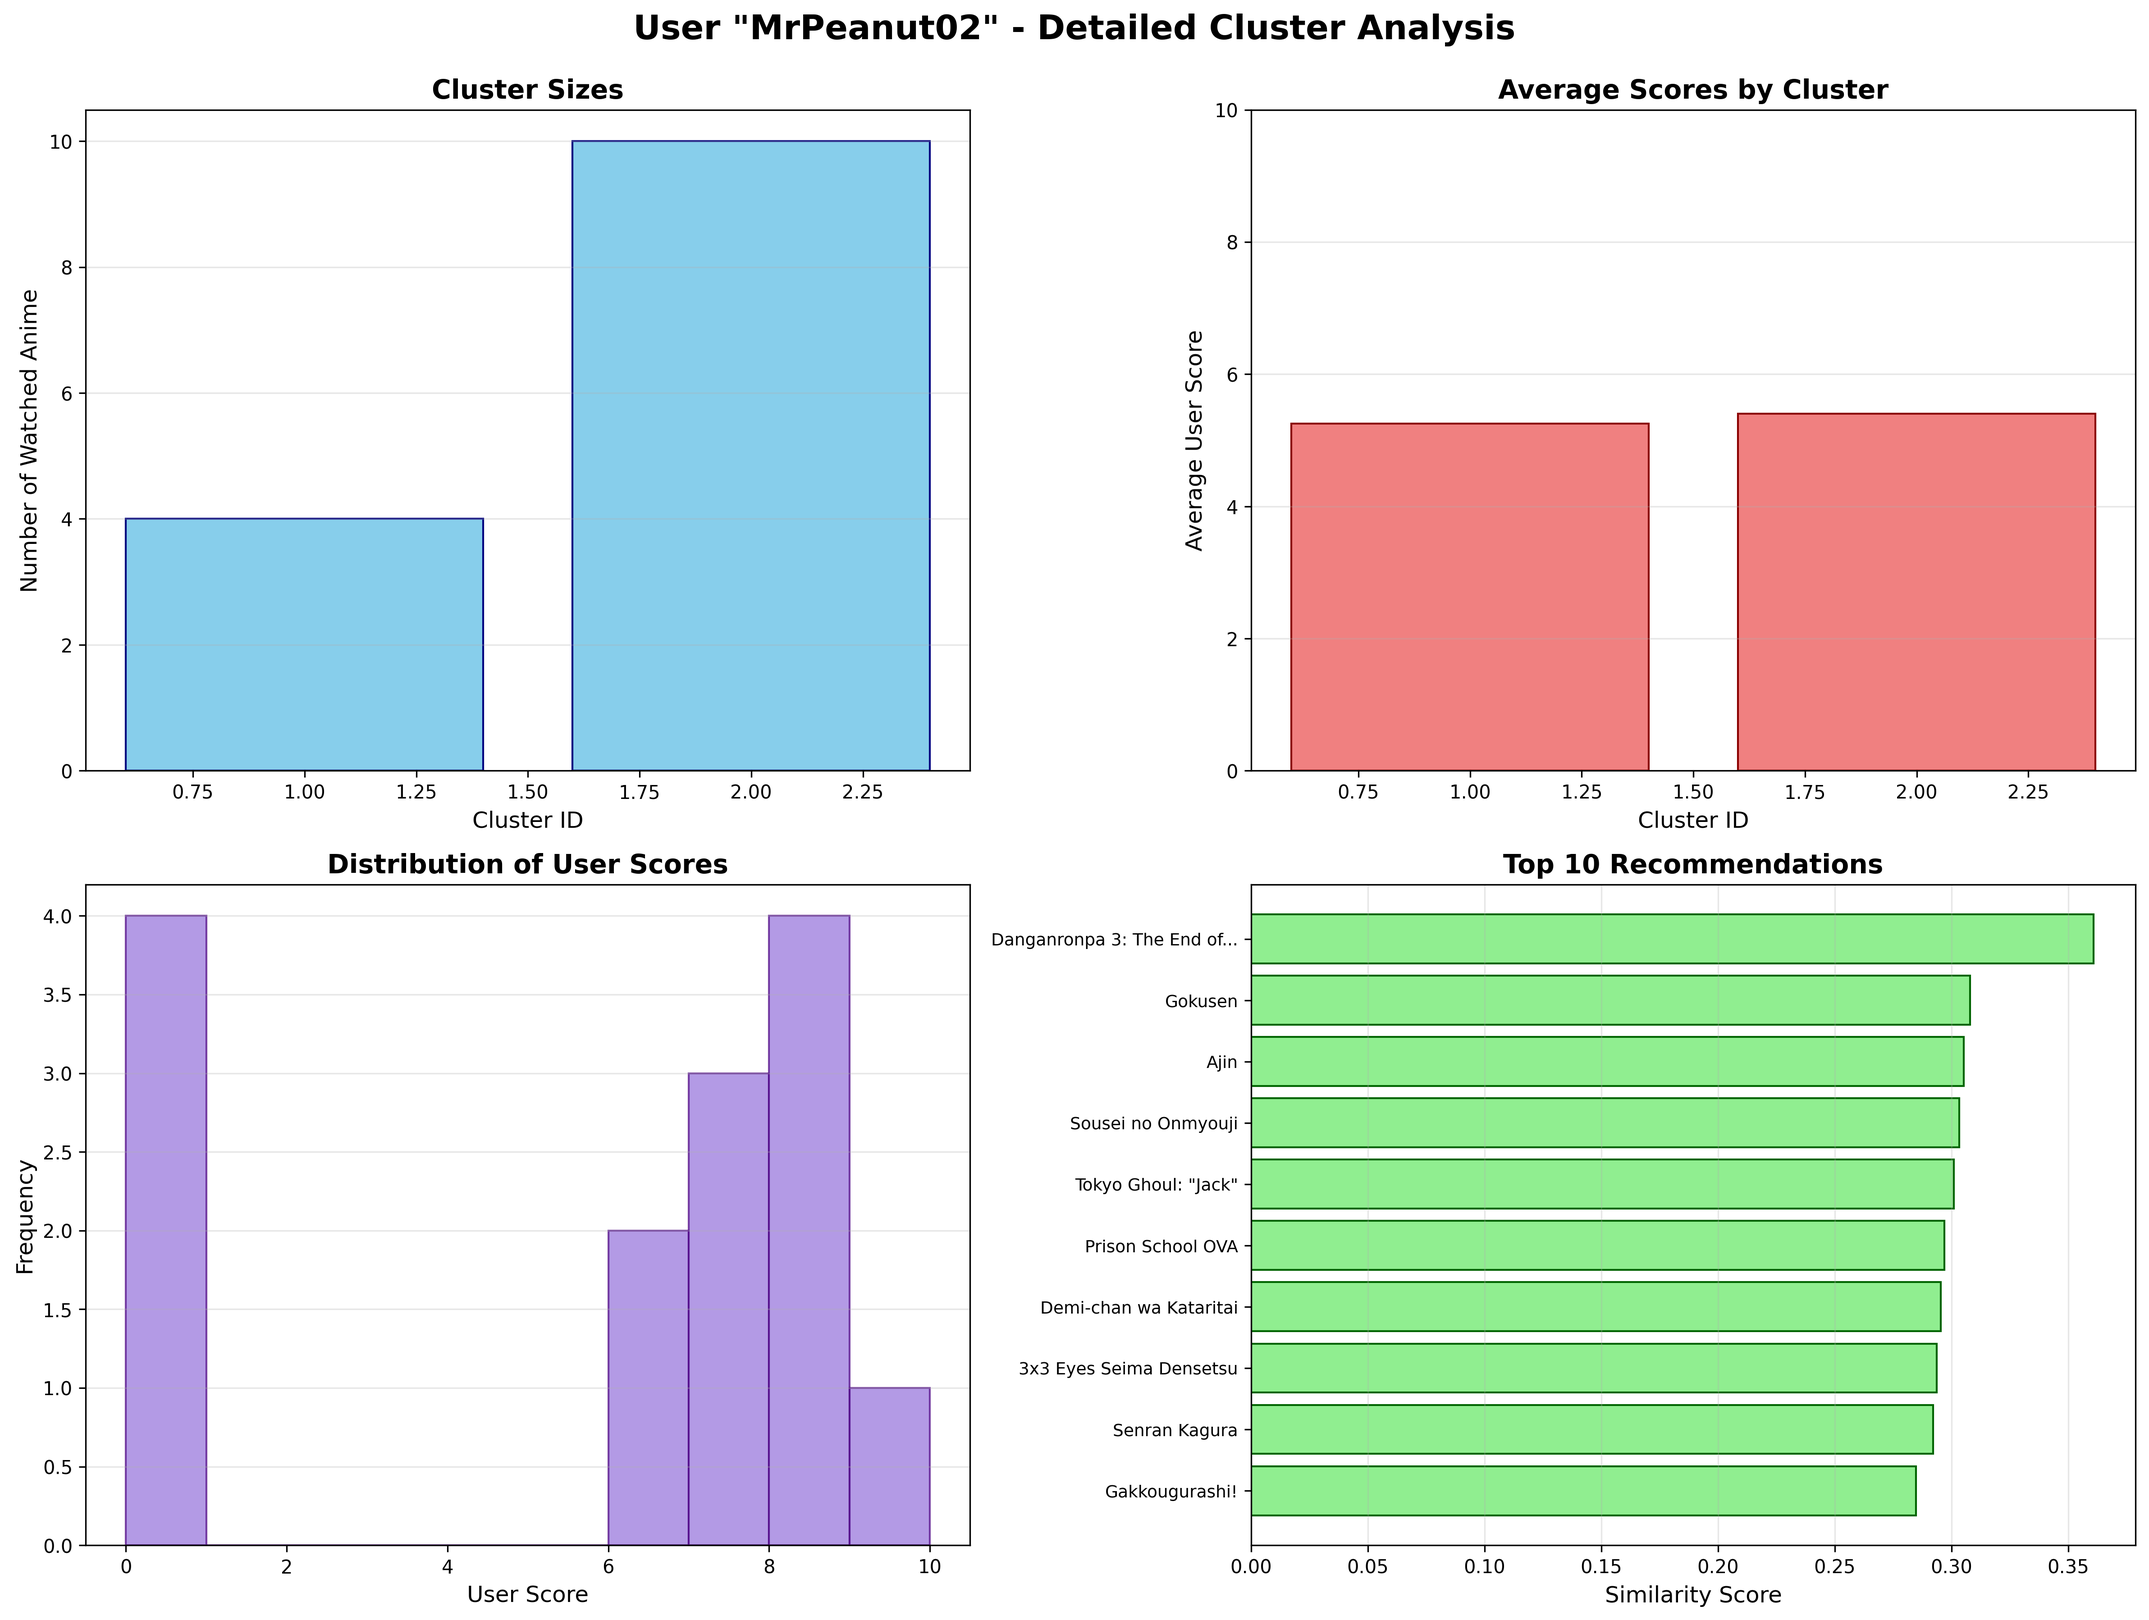
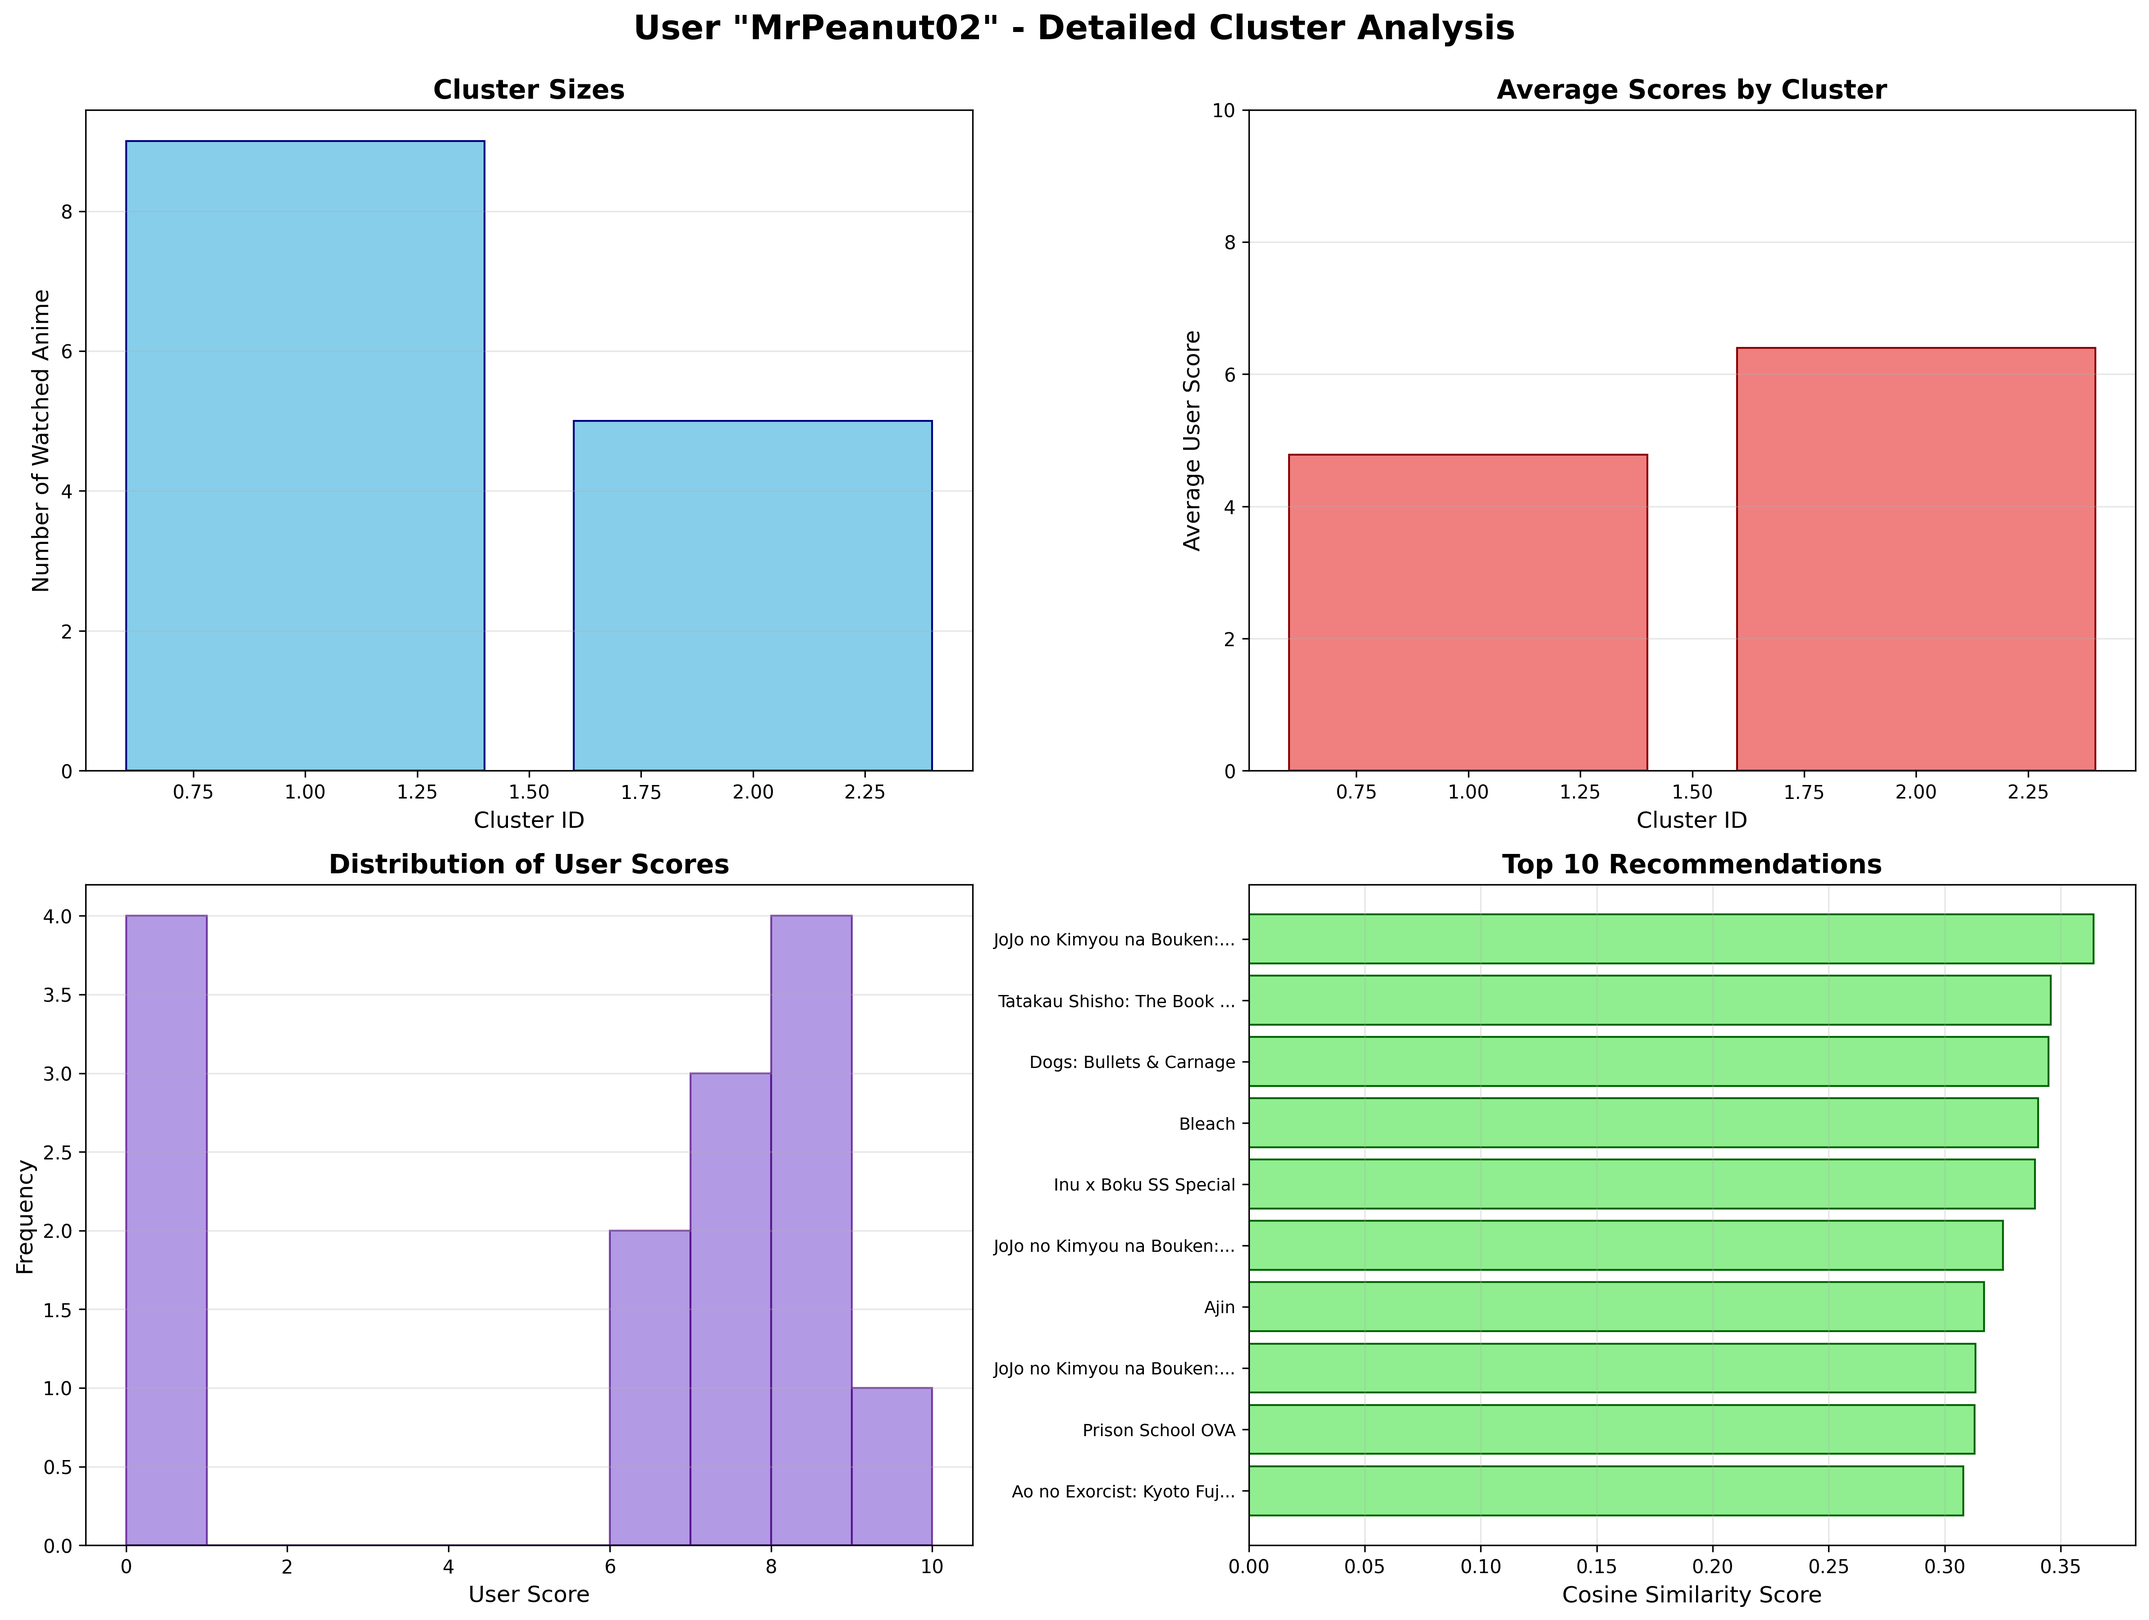
tsne

diff --git a/tsne.py b/tsne.py
@@ -1,5 +1,6 @@
 """
 Test script for visualizing user clusters and recommendations using t-SNE
+IMPROVED VERSION: Uses cosine similarity and better visualization parameters
 """
 
 import matplotlib.pyplot as plt
@@ -8,6 +9,7 @@ import pandas as pd
 import seaborn as sns
 from matplotlib.patches import Circle
 from sklearn.manifold import TSNE
+from sklearn.metrics.pairwise import cosine_similarity
 
 # Import your classes
 from Libs.indexing_db import Indexing
@@ -41,7 +43,7 @@ class UserClusterVisualizer:
         # Get recommendations
         print(f"Getting recommendations...")
         self.recommendations = self.user.get_nearest_anime_from_clusters(
-            self.index, top_k=15
+            self.index, top_k=30
         )
 
         # Get watched anime embeddings
@@ -84,6 +86,18 @@ class UserClusterVisualizer:
                 print(f"Warning: Could not get embedding for recommendation: {e}")
 
         return embeddings
+
+    def _cosine_similarity(self, vec1, vec2):
+        """Calculate cosine similarity between two vectors"""
+        return np.dot(vec1, vec2) / (np.linalg.norm(vec1) * np.linalg.norm(vec2))
+
+    def _closest_cluster_cosine(self, embedding):
+        """Find the closest cluster centroid using cosine similarity"""
+        similarities = [
+            self._cosine_similarity(embedding, centroid)
+            for centroid in self.user.embeddings
+        ]
+        return np.argmax(similarities)  # Highest similarity = closest
 
     def plot_clusters_and_recommendations(self, perplexity=30, random_state=42):
         """
@@ -140,14 +154,23 @@ class UserClusterVisualizer:
         print(f"  - {len(self.watched_embeddings)} watched anime")
         print(f"  - {len(rec_embeddings)} recommendations")
 
-        # Run t-SNE
+        # IMPROVED: Use cosine similarity as the distance metric
+        # First, normalize all embeddings
+        norms = np.linalg.norm(all_embeddings, axis=1, keepdims=True)
+        all_embeddings_normalized = all_embeddings / (norms + 1e-8)
+
+        # Run t-SNE with better parameters
         tsne = TSNE(
             n_components=2,
             perplexity=min(perplexity, len(all_embeddings) - 1),
             random_state=random_state,
-            # n_iter=1000,
+            max_iter=1000,  # Increased iterations (default is 1000)
+            learning_rate=200.0,  # Better learning rate
+            metric="cosine",  # Use cosine distance - critical for semantic embeddings!
+            init="random",
+            verbose=1,
         )
-        embeddings_2d = tsne.fit_transform(all_embeddings)
+        embeddings_2d = tsne.fit_transform(all_embeddings_normalized)
 
         # Create visualization
         fig, ax = plt.subplots(figsize=(16, 12))
@@ -207,11 +230,31 @@ class UserClusterVisualizer:
             zorder=5,
         )
 
-        # Add circles around clusters to show their influence
-        for i in cluster_idx:
+        # IMPROVED: Calculate adaptive radius for circles based on actual distances
+        # in the t-SNE space
+        for i, cluster_idx_val in enumerate(cluster_idx):
+            # Find points assigned to this cluster
+            cluster_points_indices = [
+                j
+                for j in watched_idx
+                if self._closest_cluster_cosine(all_embeddings[j]) == i
+            ]
+
+            if cluster_points_indices:
+                # Calculate average distance to points in this cluster
+                cluster_center = embeddings_2d[cluster_idx_val]
+                distances = [
+                    np.linalg.norm(embeddings_2d[j] - cluster_center)
+                    for j in cluster_points_indices
+                ]
+                avg_distance = np.mean(distances) if distances else 5
+                radius = avg_distance * 1.5  # Scale factor for visibility
+            else:
+                radius = 5
+
             circle = Circle(
-                (embeddings_2d[i, 0], embeddings_2d[i, 1]),
-                radius=5,
+                (embeddings_2d[cluster_idx_val, 0], embeddings_2d[cluster_idx_val, 1]),
+                radius=radius,
                 fill=False,
                 edgecolor="red",
                 linestyle="--",
@@ -232,8 +275,51 @@ class UserClusterVisualizer:
                 va="center",
             )
 
-        # Annotate top 5 recommendations
-        for i, idx in enumerate(list(rec_idx)[:5]):
+        # Annotate top watched anime (highest rated)
+        # Sort watched anime by score to show the best ones
+        watched_with_idx = [
+            (
+                i + n_clusters,
+                self.watched_embeddings[i],
+            )  # (index in embeddings_2d, item)
+            for i in range(len(self.watched_embeddings))
+        ]
+        watched_sorted = sorted(
+            watched_with_idx, key=lambda x: x[1]["score"], reverse=True
+        )
+
+        num_watched_to_show = 10  # Change this number to show more/fewer watched anime
+        for rank, (idx, item) in enumerate(watched_sorted[:num_watched_to_show]):
+            # Get anime title from the index
+            anime_info = self.index.get_anime_info_by_id(int(item["id"]))
+            if anime_info:
+                title = (
+                    anime_info.get("title_english")
+                    or anime_info.get("title")
+                    or f"Anime {item['id']}"
+                )
+
+                ax.annotate(
+                    f"{title[:25]} ({item['score']}⭐)",
+                    (embeddings_2d[idx, 0], embeddings_2d[idx, 1]),
+                    fontsize=8,
+                    color="darkblue",
+                    xytext=(
+                        -10,
+                        -10,
+                    ),  # Offset in opposite direction from recommendations
+                    textcoords="offset points",
+                    bbox=dict(
+                        boxstyle="round,pad=0.3", facecolor="lightblue", alpha=0.7
+                    ),
+                    arrowprops=dict(
+                        arrowstyle="->", connectionstyle="arc3,rad=-0.3", color="blue"
+                    ),
+                )
+
+        # Annotate top recommendations
+        num_recs_to_show = 15  # Change this number to show more/fewer recommendations
+        for i, idx in enumerate(list(rec_idx)[:num_recs_to_show]):
             rec_info = rec_embeddings[i]
             ax.annotate(
                 rec_info["title"][:30],
@@ -256,7 +342,7 @@ class UserClusterVisualizer:
         ax.set_xlabel("t-SNE Dimension 1", fontsize=14)
         ax.set_ylabel("t-SNE Dimension 2", fontsize=14)
         ax.set_title(
-            f'User "{self.username}" - Anime Clusters and Recommendations (t-SNE Visualization)',
+            f'User "{self.username}" - Anime Clusters and Recommendations (t-SNE with Cosine Distance)',
             fontsize=16,
             fontweight="bold",
             pad=20,
@@ -297,7 +383,7 @@ class UserClusterVisualizer:
             scores = [
                 item["score"]
                 for item in self.watched_embeddings
-                if self._closest_cluster(item["embedding"]) == i
+                if self._closest_cluster_cosine(item["embedding"]) == i
             ]
             cluster_avg_scores.append(np.mean(scores) if scores else 0)
 
@@ -344,7 +430,7 @@ class UserClusterVisualizer:
         axes[1, 1].barh(y_pos, similarities, color="lightgreen", edgecolor="darkgreen")
         axes[1, 1].set_yticks(y_pos)
         axes[1, 1].set_yticklabels(titles, fontsize=9)
-        axes[1, 1].set_xlabel("Similarity Score", fontsize=12)
+        axes[1, 1].set_xlabel("Cosine Similarity Score", fontsize=12)
         axes[1, 1].set_title("Top 10 Recommendations", fontsize=14, fontweight="bold")
         axes[1, 1].invert_yaxis()
         axes[1, 1].grid(axis="x", alpha=0.3)
@@ -359,20 +445,54 @@ class UserClusterVisualizer:
 
         return fig, axes
 
+    def plot_similarity_heatmap(self):
+        """
+        Create a heatmap showing cosine similarities between cluster centroids
+        """
+        n_clusters = len(self.user.embeddings)
+
+        # Calculate pairwise cosine similarities
+        similarity_matrix = np.zeros((n_clusters, n_clusters))
+        for i in range(n_clusters):
+            for j in range(n_clusters):
+                similarity_matrix[i, j] = self._cosine_similarity(
+                    self.user.embeddings[i], self.user.embeddings[j]
+                )
+
+        # Create heatmap
+        fig, ax = plt.subplots(figsize=(10, 8))
+        sns.heatmap(
+            similarity_matrix,
+            annot=True,
+            fmt=".3f",
+            cmap="RdYlGn",
+            center=0.5,
+            vmin=0,
+            vmax=1,
+            xticklabels=[f"C{i + 1}" for i in range(n_clusters)],
+            yticklabels=[f"C{i + 1}" for i in range(n_clusters)],
+            ax=ax,
+            cbar_kws={"label": "Cosine Similarity"},
+        )
+        ax.set_title(
+            f"Cluster Centroid Similarity Matrix\n(User: {self.username})",
+            fontsize=14,
+            fontweight="bold",
+            pad=20,
+        )
+        plt.tight_layout()
+
+        return fig, ax
+
     def _assign_watched_to_clusters(self):
-        """Assign each watched anime to its nearest cluster"""
+        """Assign each watched anime to its nearest cluster using cosine similarity"""
         assignments = {i: [] for i in range(len(self.user.embeddings))}
 
         for item in self.watched_embeddings:
-            cluster_id = self._closest_cluster(item["embedding"])
+            cluster_id = self._closest_cluster_cosine(item["embedding"])
             assignments[cluster_id].append(item)
 
         return assignments
-
-    def _closest_cluster(self, embedding):
-        """Find the closest cluster centroid to an embedding"""
-        distances = np.linalg.norm(self.user.embeddings - embedding, axis=1)
-        return np.argmin(distances)
 
     def save_visualizations(self, output_dir="./visualizations"):
         """Save all visualizations to files"""
@@ -381,6 +501,7 @@ class UserClusterVisualizer:
         os.makedirs(output_dir, exist_ok=True)
 
         # Main t-SNE plot
+        print("Generating t-SNE visualization...")
         fig1, _ = self.plot_clusters_and_recommendations()
         fig1.savefig(
             f"{output_dir}/user_{self.username}_tsne.png", dpi=300, bbox_inches="tight"
@@ -388,6 +509,7 @@ class UserClusterVisualizer:
         print(f"Saved: {output_dir}/user_{self.username}_tsne.png")
 
         # Cluster details
+        print("Generating cluster details...")
         fig2, _ = self.plot_cluster_details()
         fig2.savefig(
             f"{output_dir}/user_{self.username}_details.png",
@@ -395,6 +517,16 @@ class UserClusterVisualizer:
             bbox_inches="tight",
         )
         print(f"Saved: {output_dir}/user_{self.username}_details.png")
+
+        # Similarity heatmap
+        print("Generating similarity heatmap...")
+        fig3, _ = self.plot_similarity_heatmap()
+        fig3.savefig(
+            f"{output_dir}/user_{self.username}_heatmap.png",
+            dpi=300,
+            bbox_inches="tight",
+        )
+        print(f"Saved: {output_dir}/user_{self.username}_heatmap.png")
 
         plt.close("all")
 
@@ -409,7 +541,7 @@ def test_user_visualization(username="MrPeanut02"):
         MyAnimeList username to visualize
     """
     print("=" * 80)
-    print(f"USER CLUSTER VISUALIZATION TEST")
+    print(f"USER CLUSTER VISUALIZATION TEST (IMPROVED WITH COSINE SIMILARITY)")
     print("=" * 80)
 
     # Load vector database
@@ -432,12 +564,15 @@ def test_user_visualization(username="MrPeanut02"):
     print("\n4. Generating cluster details...")
     fig2, ax2 = visualizer.plot_cluster_details()
 
+    print("\n5. Generating similarity heatmap...")
+    fig3, ax3 = visualizer.plot_similarity_heatmap()
+
     # Save visualizations
-    print("\n5. Saving visualizations...")
+    print("\n6. Saving visualizations...")
     visualizer.save_visualizations()
 
     # Show plots
-    print("\n6. Displaying plots...")
+    print("\n7. Displaying plots...")
     plt.show()
 
     print("\n" + "=" * 80)
@@ -449,7 +584,7 @@ def test_user_visualization(username="MrPeanut02"):
 
 if __name__ == "__main__":
     # Test with default user
-    visualizer = test_user_visualization("symonx99")
+    visualizer = test_user_visualization("MrPeanut02")
 
     # You can also test with a different user:
     # visualizer = test_user_visualization("YourUsername")

diff --git a/Libs/indexing_db.py b/Libs/indexing_db.py
@@ -629,3 +629,23 @@ class Indexing:
         print(
             f"✅ Successfully added '{meta.get('title')}' to the vector database and saved."
         )
+
+    def get_anime_info_by_id(self, anime_id: int):
+        """
+        Retrieves the row where the column 'id' matches the given anime_id.
+        """
+        df = self._load_dataset()
+
+        # Filter the dataframe where the column 'id' matches our input
+        # This works regardless of what the dataframe index is set to
+        result = df[df["id"] == int(anime_id)]
+
+        if not result.empty:
+            # result.iloc[0] gets the first matching row
+            # .to_dict() converts it to the format you need
+            row_dict = result.iloc[0].to_dict()
+
+            # Clean up 'nan' values so they don't break your title extraction logic
+            return {k: (v if pd.notnull(v) else None) for k, v in row_dict.items()}
+
+        return None
